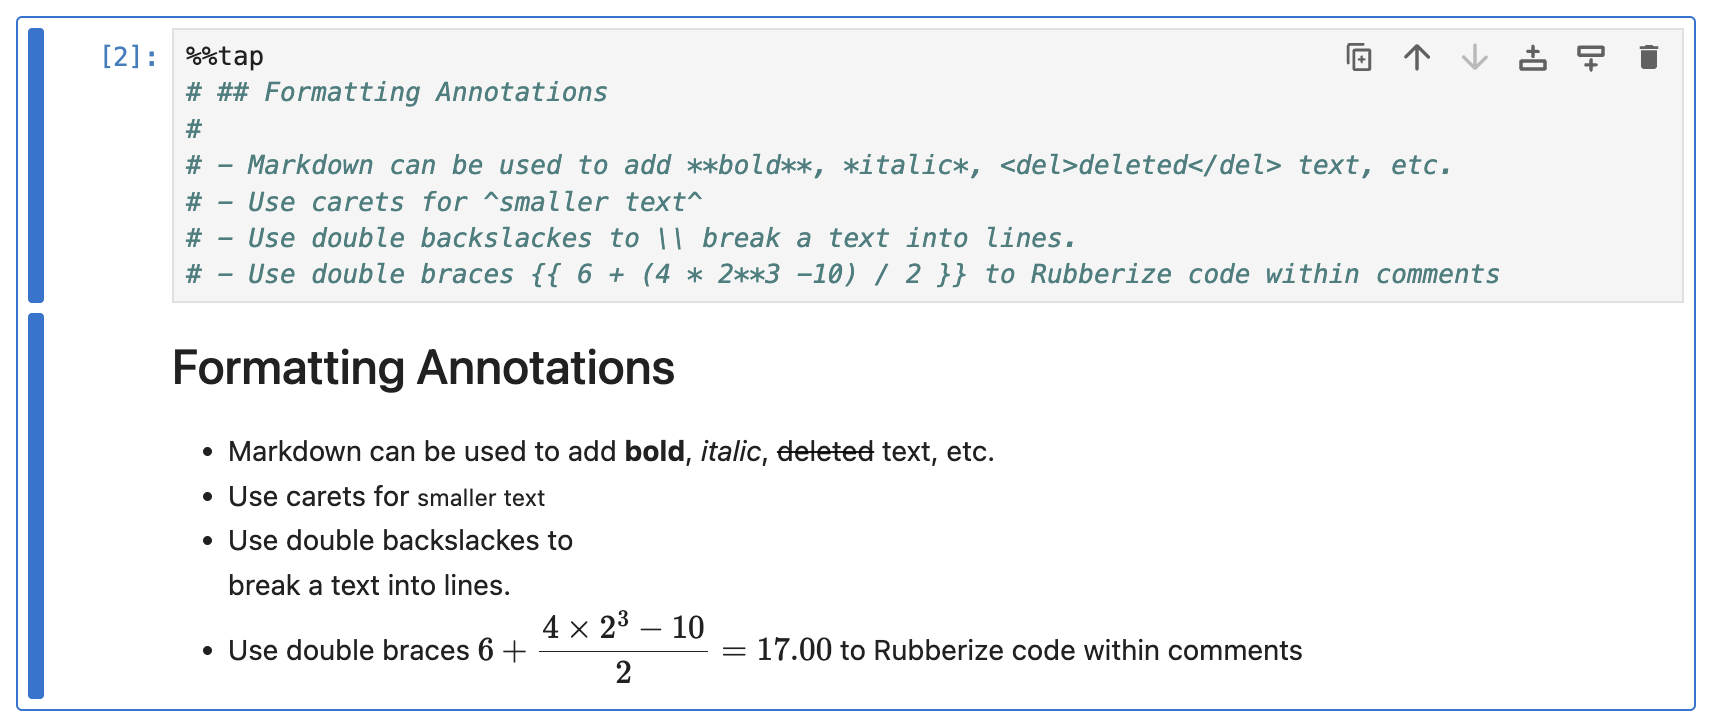
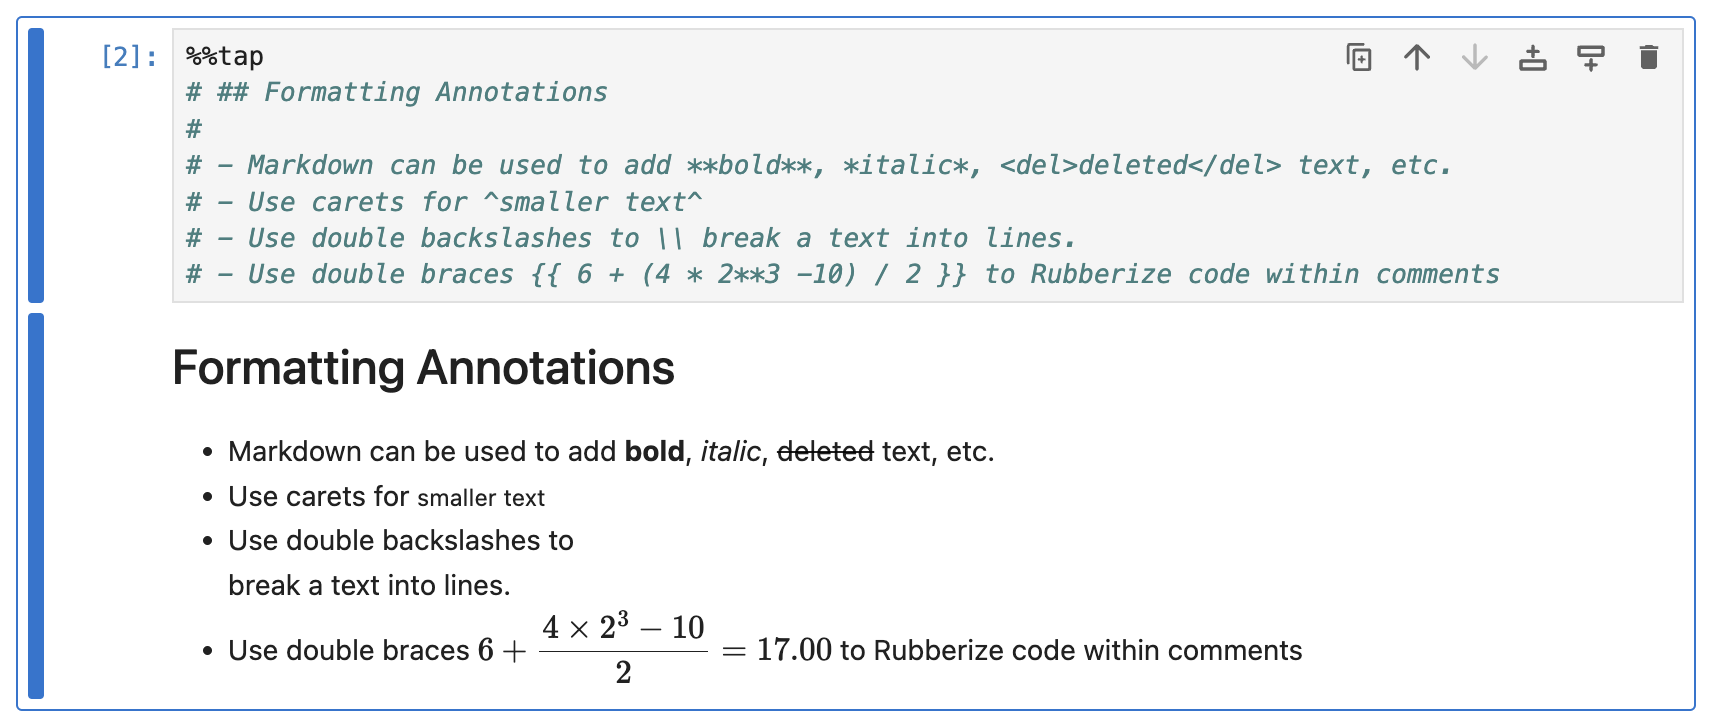
docs(getting_started): fix typo

diff --git a/docs/getting_started.md b/docs/getting_started.md
@@ -79,7 +79,7 @@ Rubberize supports [Markdown](https://www.markdownguide.org/basic-syntax/) in co
 #
 # - Markdown can be used to add **bold**, *italic*, <del>deleted</del> text, etc.
 # - Use carets for ^smaller text^
-# - Use double backslackes to \\ break a text into lines.
+# - Use double backslashes to \\ break a text into lines.
 # - Use double braces {{ 6 + (4 * 2**3 -10) / 2 }} to Rubberize code within comments
 ```
 
@@ -93,7 +93,7 @@ Rubberize also supports alert boxes similar to GitHub's implementation and synta
 
 ## Units
 
-Scientists and engineers often work with physical quantites, which have *units*. Rubberize simplifies unit-aware calculations by integrating with [Pint](https://github.com/hgrecco/pint), which keeps track of physical quantities for you.
+Scientists and engineers often work with physical quantities, which have *units*. Rubberize simplifies unit-aware calculations by integrating with [Pint](https://github.com/hgrecco/pint), which keeps track of physical quantities for you.
 
 > [!NOTE]
 > Pint is not a core dependency of `rubberize[notebook]`. If you want to work with units, you have to install it with:
